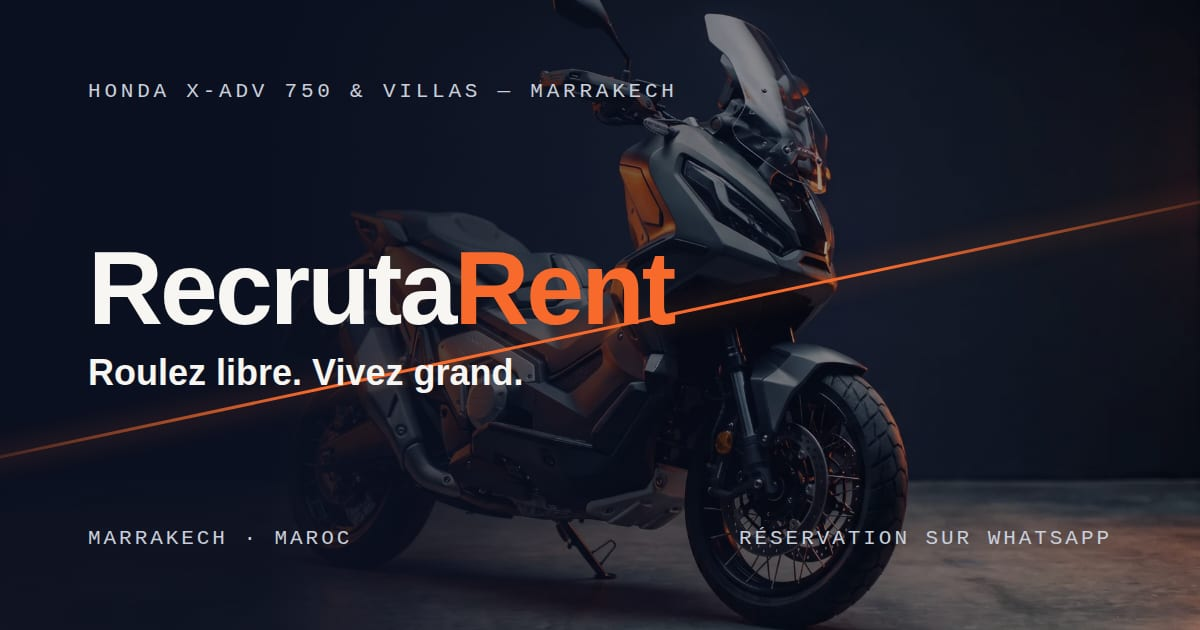
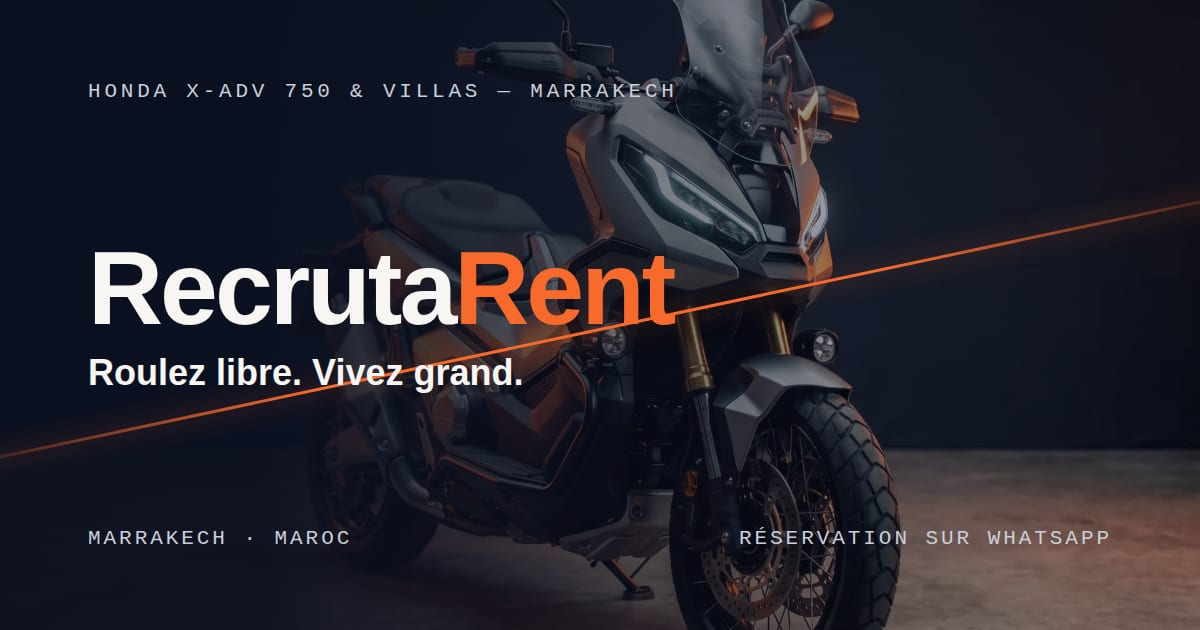
Creatives v2: 'new style' silver X-ADV imagery + ambient hero video
- Regenerate the canonical X-ADV studio shot to match the client's reference
  ('new style'): silver-grey bodywork, twin white LED light-blades, round
  auxiliary fog lamps, gold USD forks, wire-spoked wheels — same filename, so
  hero/spotlight/showcase/detail/CTA all update
- Recompose the OG banner (61KB JPEG) around the new shot
- Add public/videos/hero-xadv.mp4 (Seedance identity render of the silver bike
  riding Marrakech at night) and enable heroVideoSrc — the hero's video layer is
  desktop-only, idle-mounted, reduced-motion gated, poster remains the LCP
- Interim video: Veo 3.1 ultra reshoot documented in TODO §3 (daily generation
  cap reached); swapping the mp4 upgrades the hero with zero code changes

Claude-Session: https://claude.ai/code/session_011RWJ77NEeBbdniRuBMX5qj

diff --git a/src/config/site.ts b/src/config/site.ts
@@ -49,7 +49,7 @@ export const site = {
 
   // Ambient hero video (RIDE panel, desktop only). Drop an mp4 into /public/videos
   // and set the path here, e.g. "/videos/hero-xadv.mp4". Empty = poster image only.
-  heroVideoSrc: "", // TODO: generate via Higgsfield once the daily limit resets (see TODO.md)
+  heroVideoSrc: "/videos/hero-xadv.mp4", // Seedance stopgap — swap for the Veo 3.1 ultra render (TODO.md §3)
 } as const;
 
 export type Site = typeof site;

diff --git a/TODO.md b/TODO.md
@@ -22,22 +22,19 @@ La plupart des valeurs se règlent dans **un seul fichier** : `src/config/site.t
   politique kilométrique, âge minimum (21 ans dans la FAQ/conditions).
 - **Logements** — `src/data/properties.ts` : `pricePerNight` et `deposit` des 6 logements.
 
-## 3. Créatifs Higgsfield restants (limite journalière atteinte — à relancer)
+## 3. Créatifs Higgsfield restants (limite journalière — à relancer demain)
 
-Le compte a atteint sa limite de génération quotidienne pendant la production.
-Dès qu'elle est réinitialisée (~2 crédits/image, ~45 crédits la vidéo) :
+Fait aujourd'hui : nouveau shot studio du X-ADV « new style » (argent, lames LED,
+fourche or, antibrouillards ronds — job `27608a62-be79-4e36-9de1-78acfdd92f30`) +
+vidéo d'ambiance Seedance branchée en attendant mieux (`public/videos/hero-xadv.mp4`).
 
-- **Reshoot du hero nocturne X-ADV** : la première image de nuit générée montrait
-  l'ancienne face avant (double optique ronde). Regénérer avec la photo de référence
-  du client (X-ADV 2026 noir, bandeaux LED fins) importée comme référence d'identité.
-  Média déjà importé côté Higgsfield : `media_id 5a13b08c-8e07-4bf5-9f3e-1ef2b7180205`
-  (le shot studio, conforme au modèle 2026).
-- **Vidéo d'ambiance du hero** (Seedance 2.0, ~45 crédits, 5 s, 16:9, 1080p, silencieuse) :
-  prompt prêt = « tracking shot du X-ADV noir traversant une rue de Marrakech la nuit,
-  lanternes chaudes, traînées orange » avec la même référence d'identité.
-  Déposer le mp4 dans `public/videos/hero-xadv.mp4` puis renseigner
-  `heroVideoSrc: "/videos/hero-xadv.mp4"` dans `src/config/site.ts` — l'emplacement
-  est déjà câblé (desktop, lazy, reduced-motion géré).
+Dès que la limite quotidienne se réinitialise :
+
+- **Vidéo hero en Veo 3.1 ultra** (le client trouve le rendu Seedance trop « CG ») :
+  `generate_video` modèle `veo3_1`, variant `veo-3-1-preview`, quality `ultra`,
+  6 s, 16:9 (~65 crédits) — prompt photoréaliste prêt dans l'historique (tracking shot
+  X-ADV argent, médina de Marrakech la nuit, lanternes, réalisme documentaire).
+  Remplacer simplement `public/videos/hero-xadv.mp4` par le nouveau fichier.
 - **Photos des 6 logements + photo « à propos »** (~14 crédits) : mêmes prompts
   cinématiques que la villa (voir style suffix dans l'historique de commits).
 